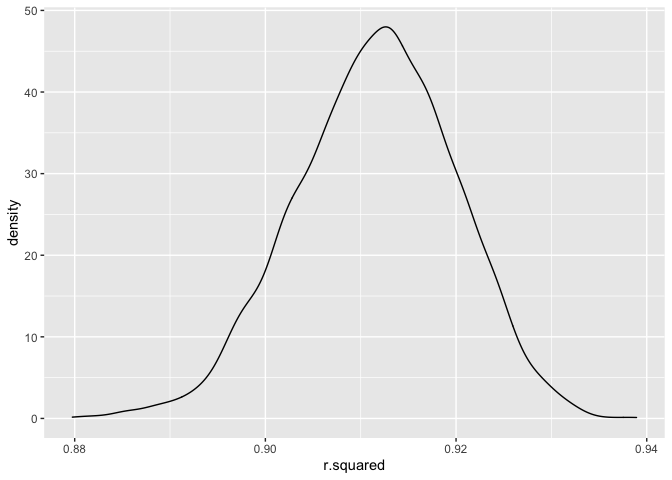
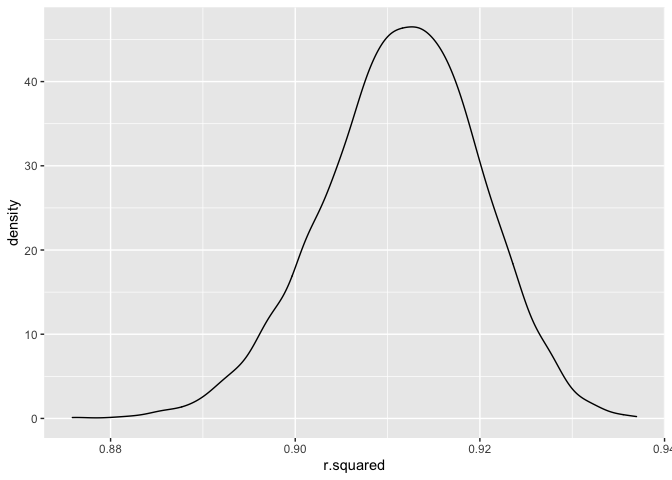
Finished both problems

diff --git a/p8105_hw6_yz4183.md b/p8105_hw6_yz4183.md
@@ -5,20 +5,6 @@ Yuchen Zheng
 
 ``` r
 library(tidyverse)
-```
-
-    ## ── Attaching packages ─────────────────────────────────────── tidyverse 1.3.1 ──
-
-    ## ✓ ggplot2 3.3.5     ✓ purrr   0.3.4
-    ## ✓ tibble  3.1.4     ✓ dplyr   1.0.7
-    ## ✓ tidyr   1.1.3     ✓ stringr 1.4.0
-    ## ✓ readr   2.0.1     ✓ forcats 0.5.1
-
-    ## ── Conflicts ────────────────────────────────────────── tidyverse_conflicts() ──
-    ## x dplyr::filter() masks stats::filter()
-    ## x dplyr::lag()    masks stats::lag()
-
-``` r
 library(readr)
 library(modelr)
 library(patchwork)
@@ -36,19 +22,7 @@ bw_df =
          malform = factor(malform),
          mrace = factor(mrace)) %>% 
   mutate(bwt = bwt*0.00220462)
-```
 
-    ## Rows: 4342 Columns: 20
-
-    ## ── Column specification ────────────────────────────────────────────────────────
-    ## Delimiter: ","
-    ## dbl (20): babysex, bhead, blength, bwt, delwt, fincome, frace, gaweeks, malf...
-
-    ## 
-    ## ℹ Use `spec()` to retrieve the full column specification for this data.
-    ## ℹ Specify the column types or set `show_col_types = FALSE` to quiet this message.
-
-``` r
 bw_df %>% skimr::skim()
 ```
 
@@ -566,7 +540,7 @@ quantile(betas_df$log_beta, c(.025, 0.975))
 ```
 
     ##     2.5%    97.5% 
-    ## 1.964805 2.057737
+    ## 1.965811 2.059462
 
 The 95% confidence interal for log(*β̂*<sub>0</sub> \* *β̂*<sub>1</sub>)
 is (1.96, 2.05).
@@ -591,6 +565,6 @@ quantile(rsquare_df$r.squared, c(.025, 0.975))
 ```
 
     ##      2.5%     97.5% 
-    ## 0.8948530 0.9268759
+    ## 0.8936858 0.9272085
 
 The 95% confidence interal for $\\hat{r^2}$ is (0.89, 0.92).
